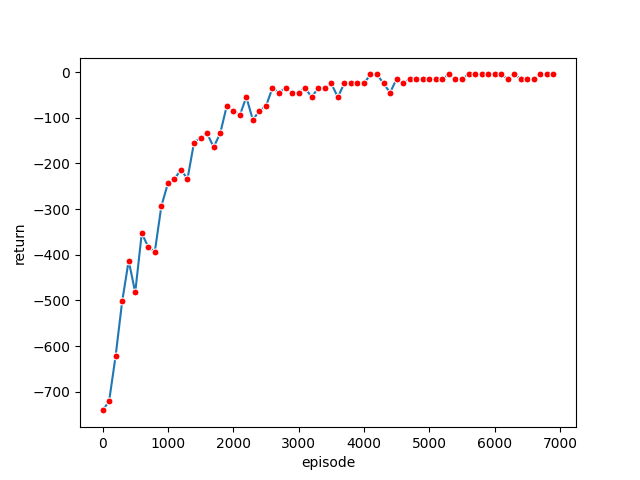
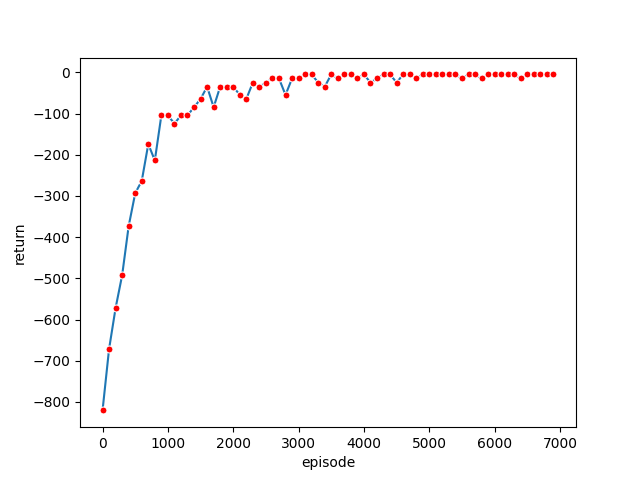
Fixed gamma parameter, now solution is always optimal

diff --git a/main.py b/main.py
@@ -5,7 +5,7 @@ import config
 import qlearning
 from environment import Environment, Quit
 
-environment = Environment(f'maps/map2.txt')
+environment = Environment(f'maps/map.txt')
 running = True
 
 
@@ -17,7 +17,7 @@ def render_env():
 if __name__ == '__main__':
     try:
         q_tab, avg_returns, avg_steps = qlearning.train(7000, 100, 0.05,
-                                                        0.95, 0.005, 1, 0.001, environment)
+                                                        1, 0.005, 1, 0.001, environment)
         qlearning.evaluate(100, 100, environment, q_tab)
         qlearning.line_plot(avg_returns, "return", True)
         qlearning.line_plot(avg_steps, "steps", True)
